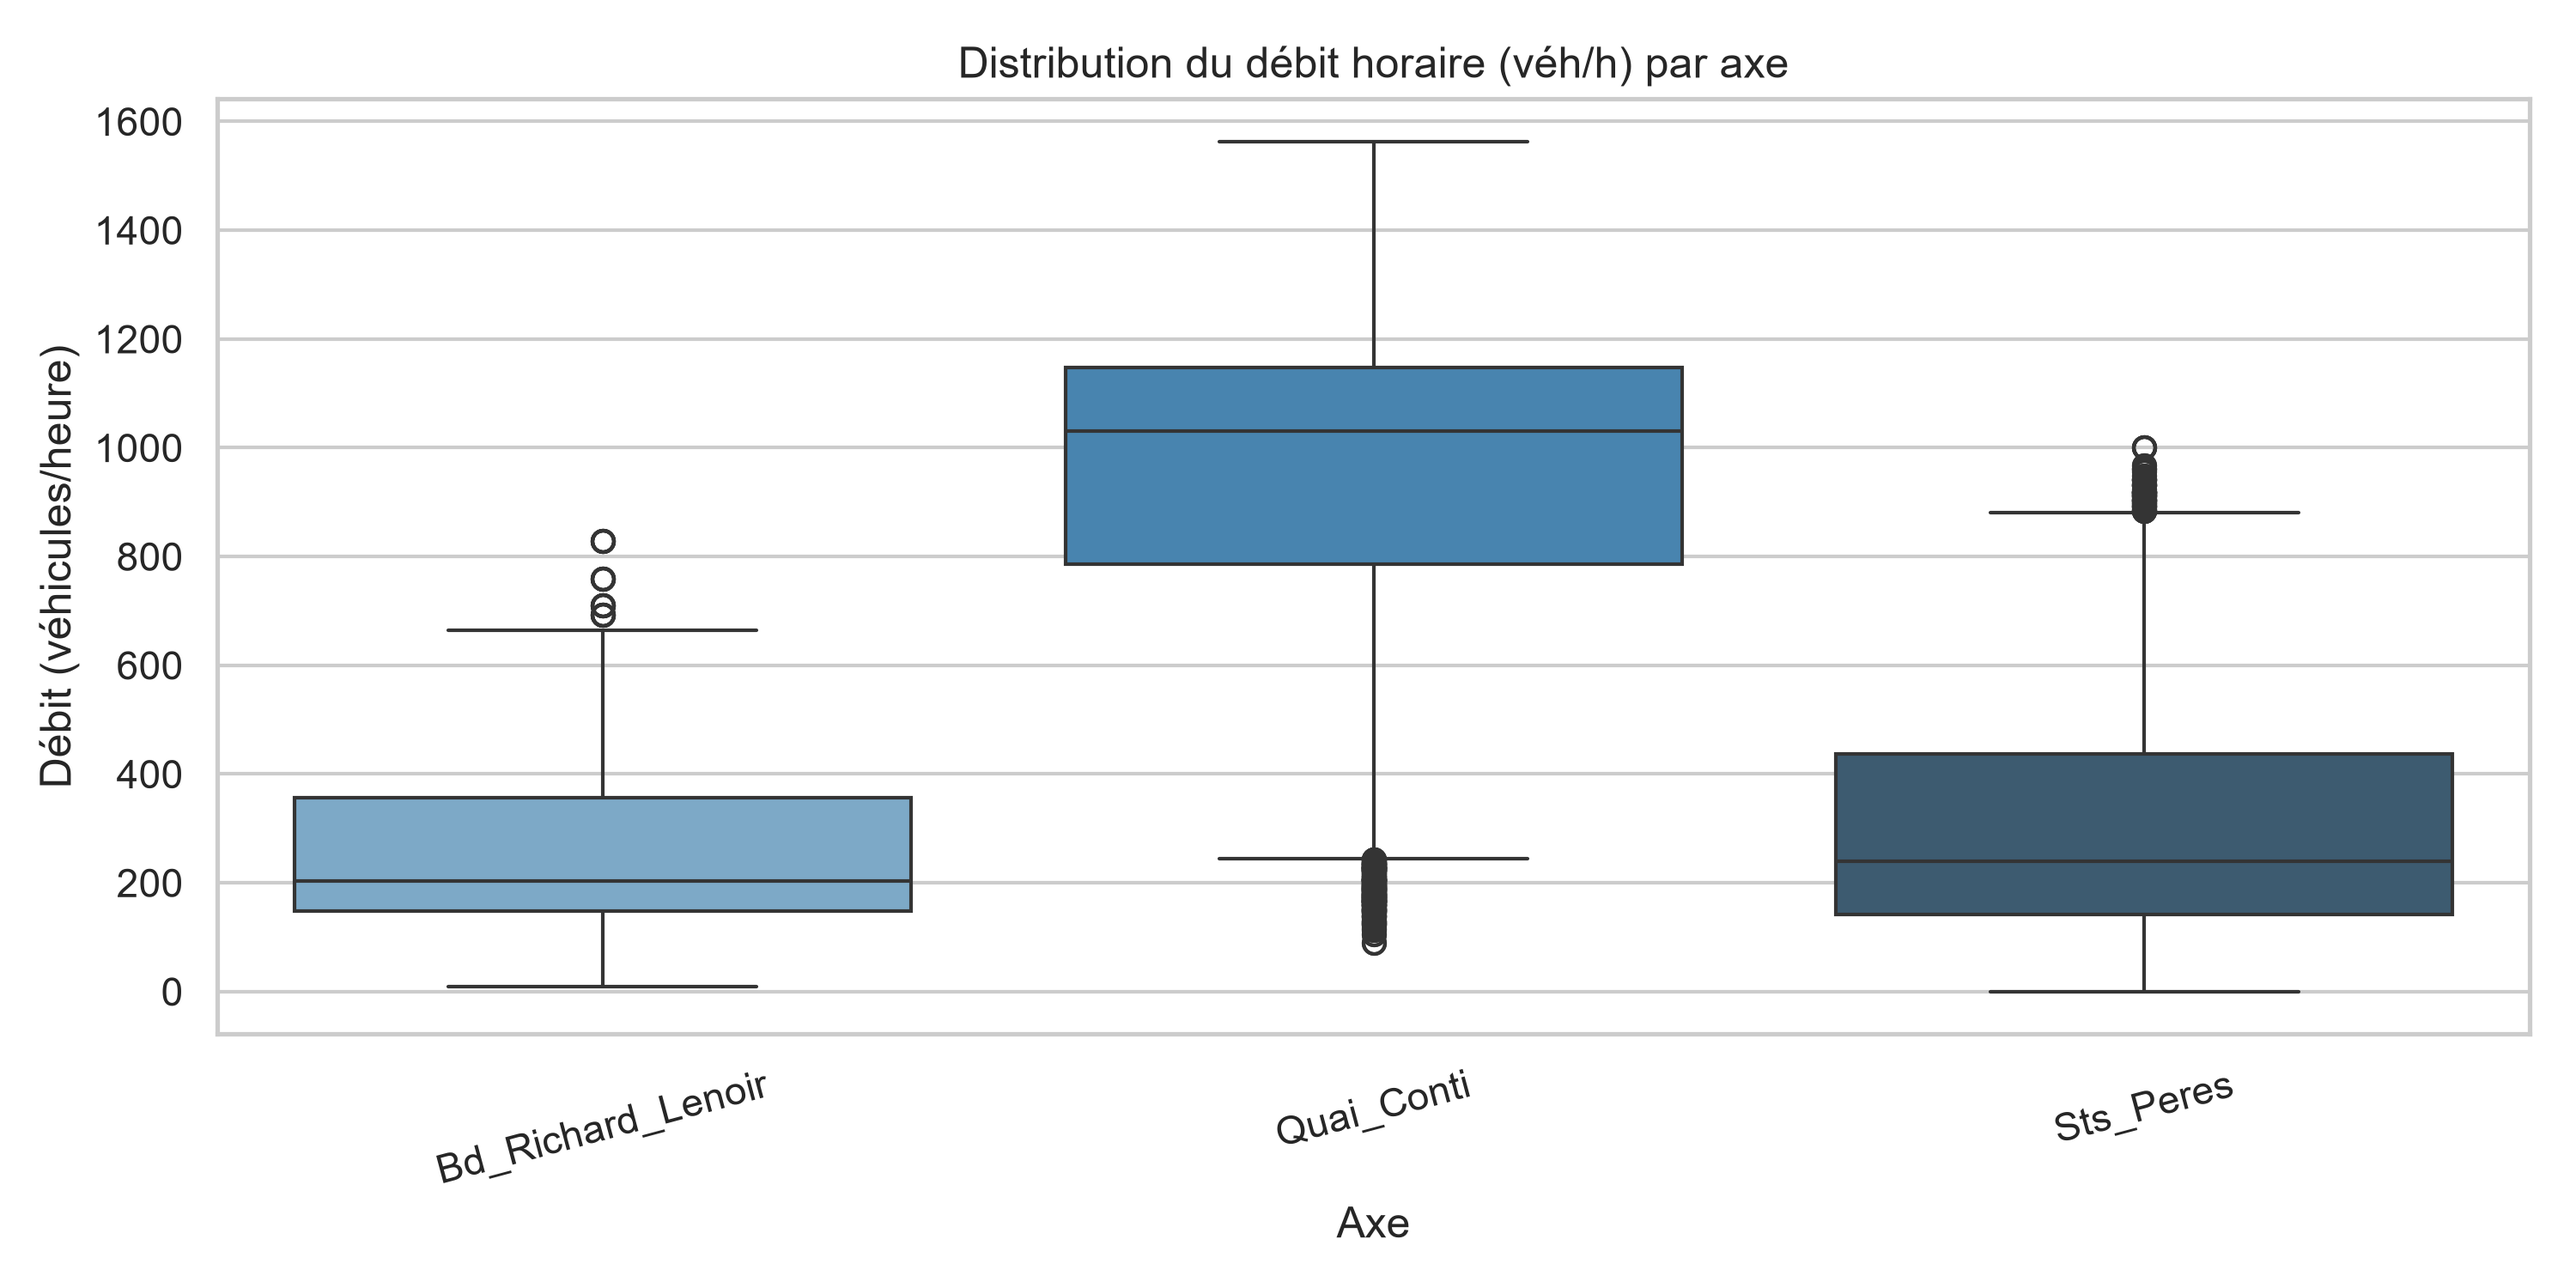
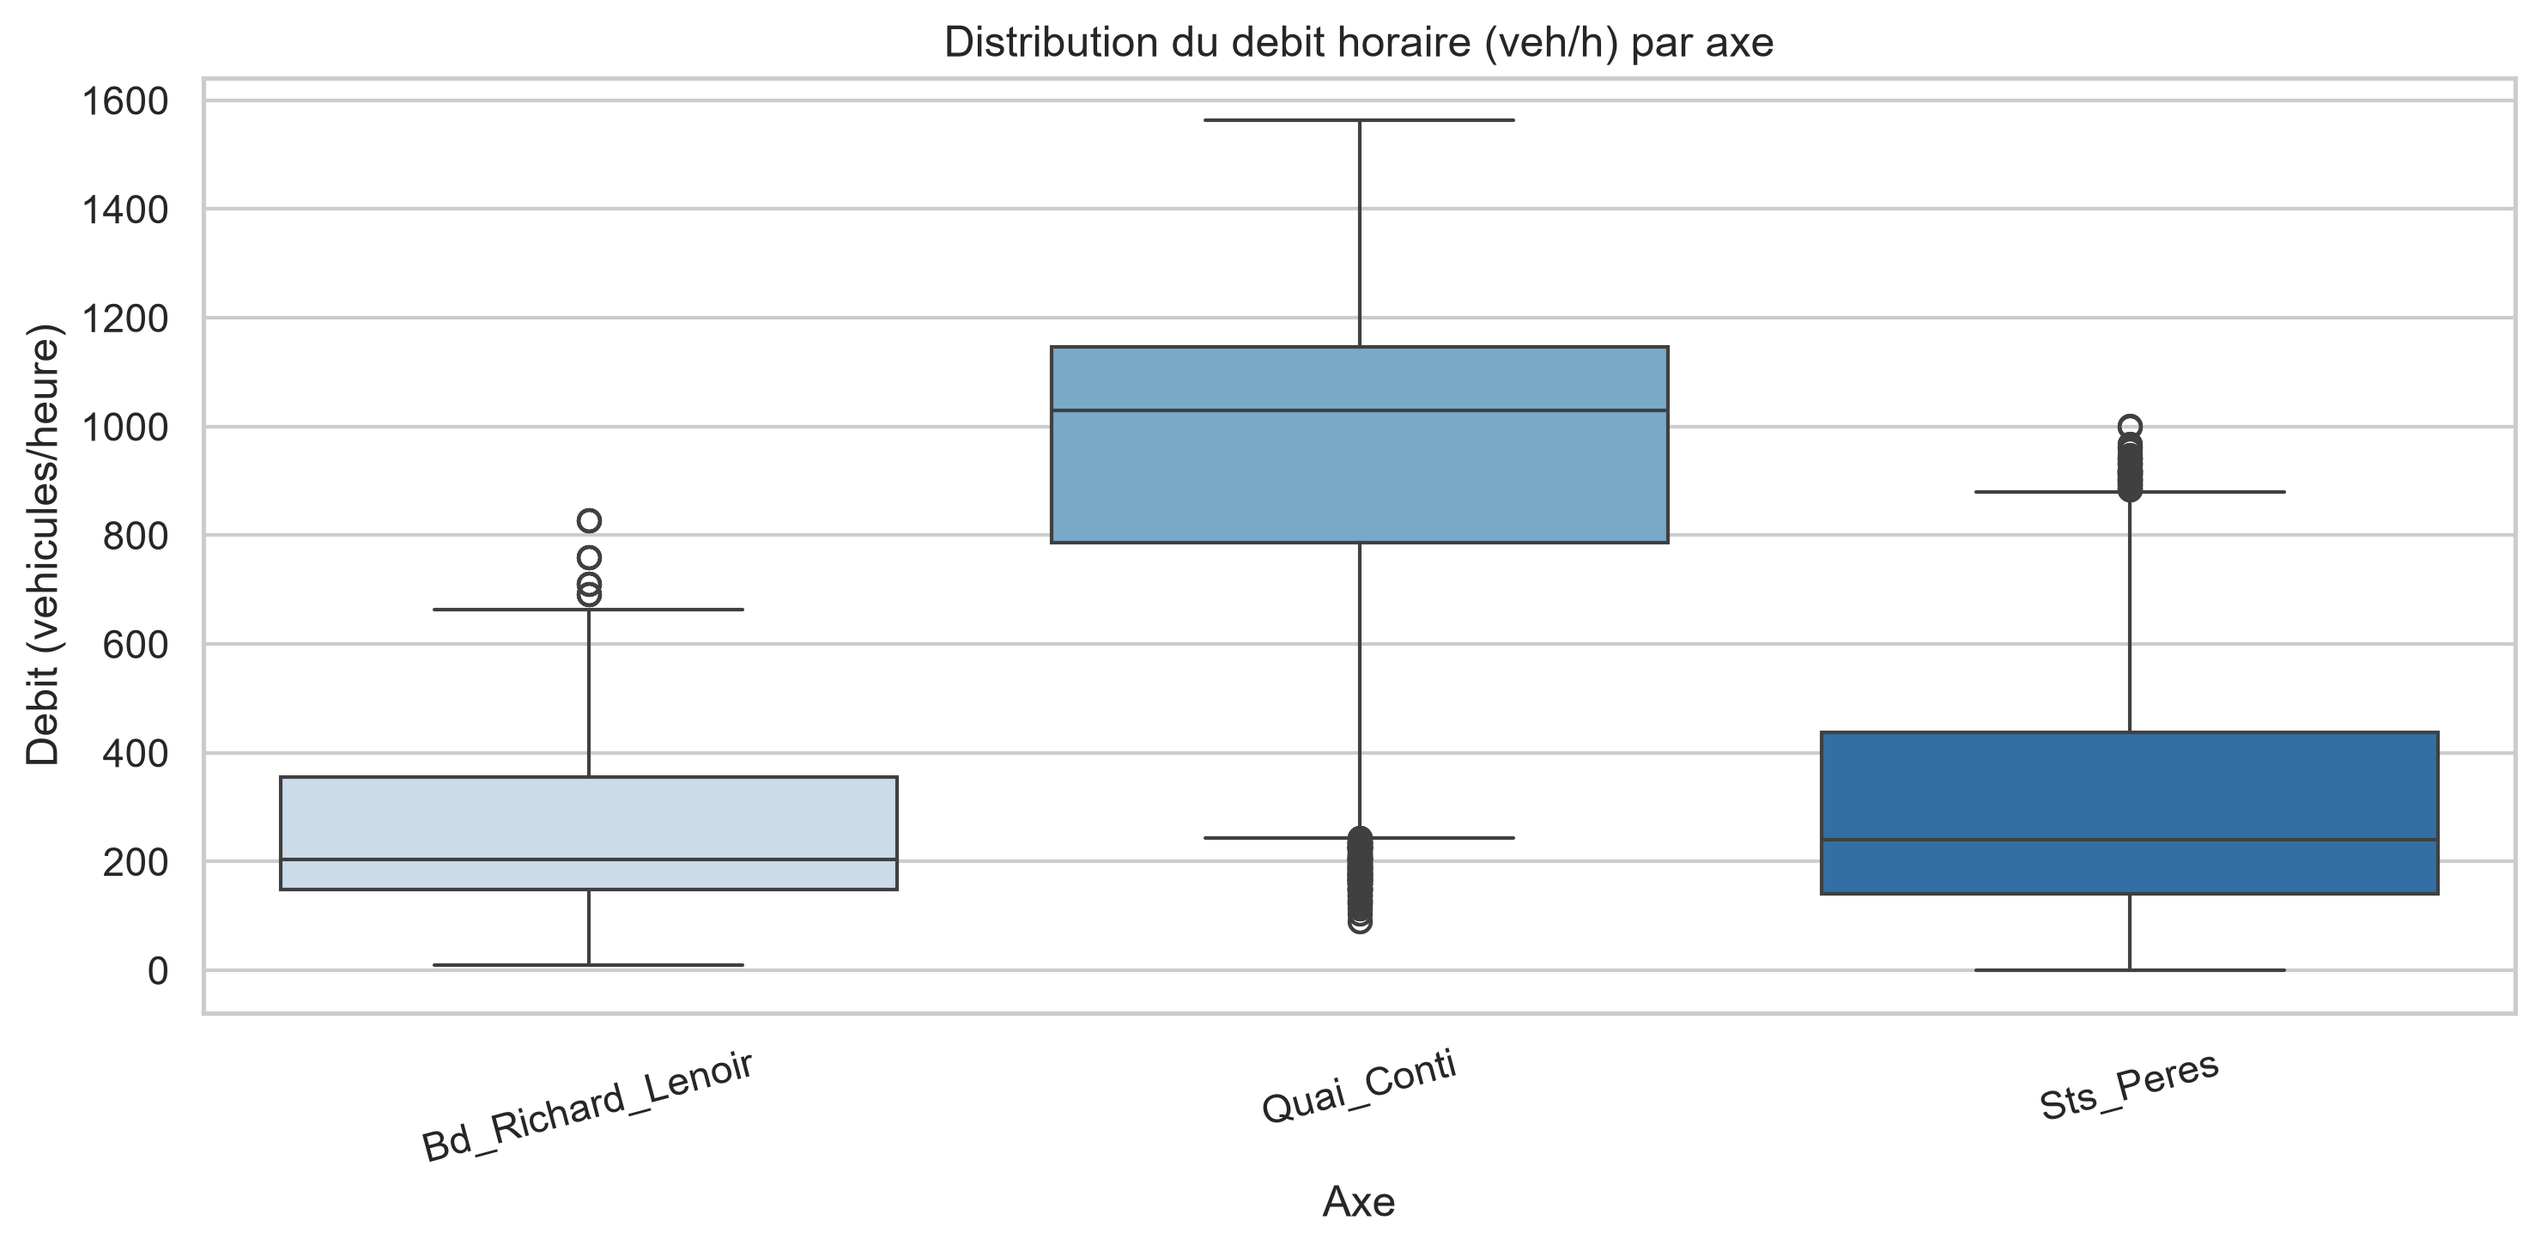
Modifaction apportée

Changed region(s): [[0.0, 0.0, 0.9946, 0.9266], [0.5284, 0.9266, 0.5595, 0.9883], [0.5284, 0.5868, 0.5595, 0.6177]]

diff --git a/README.md b/README.md
@@ -128,12 +128,13 @@ La trajectoire des medianes (ligne noire) revele la physique du trafic : le debi
 
 Conformément aux règles du module, l'utilisation de l'IA générative a été déclarée et encadrée comme suit :
 
-- **Outil utilisé** : Assistant IA conversationnel (LLM).
-- **À quoi cela m'a servi concrètement** :
-  1. **Structuration et relecture** : Amélioration de la clarté du code, affinage des interprétations textuelles pour garantir la rigueur scientifique.
-  2. **Gestion du versioning avec Git** : L'IA m'a accompagné dans la rédaction des commandes Git (`git add`, `git commit`, `git push`) compte tenu du fait que je ne l'avais jamais fait avant pour suivre l'évolution du projet sur GitHub.
-  
-- **Modifications apportées** : Toutes les suggestions générées par l'IA ont été systématiquement vérifiées, validées et adaptées manuellement dans le code pour garantir la cohérence métier et l'exactitude des résultats présentés dans ce projet.
+- **Outil utilisé** : Perplexity (assistant IA conversationnel).
+- **Pour quelles parties** :
+  1. **Structuration et relecture** : amélioration de la clarté du code et affinage des interprétations textuelles pour garantir la rigueur scientifique.
+  2. **Gestion du versioning avec Git** : l'IA m'a accompagné dans la rédaction des commandes Git (`git add`, `git commit`, `git push`) puisque je n'en avais jamais fait avant pour suivre l'évolution du projet sur GitHub.
+  3. **Débogage et génération de code** : j'ai utilisé Perplexity quand je bloquais sur des points précis. L'IA m'a aidé à corriger la syntaxe des graphiques Matplotlib, à générer le code de recherche des doublons cachés (j'avais la logique mais mon code ne marchait pas), à comprendre pourquoi les valeurs "inconnu" et "invalide" affichaient des NaN, à retrouver la formule de la méthode IQR et celle du calcul de la longueur des trous.
+
+- **Ce que j'ai écrit ou corrigé moi-même** : l'import des données, le chargement par chunks, l'analyse exploratoire, le formatage des dates, le typage des colonnes, la vérification des doublons, le filtrage des capteurs (notamment la suppression du capteur 70), les différents tests de redondance, ainsi qu'une grande partie de l'interprétation des résultats.
 
 ---
 
